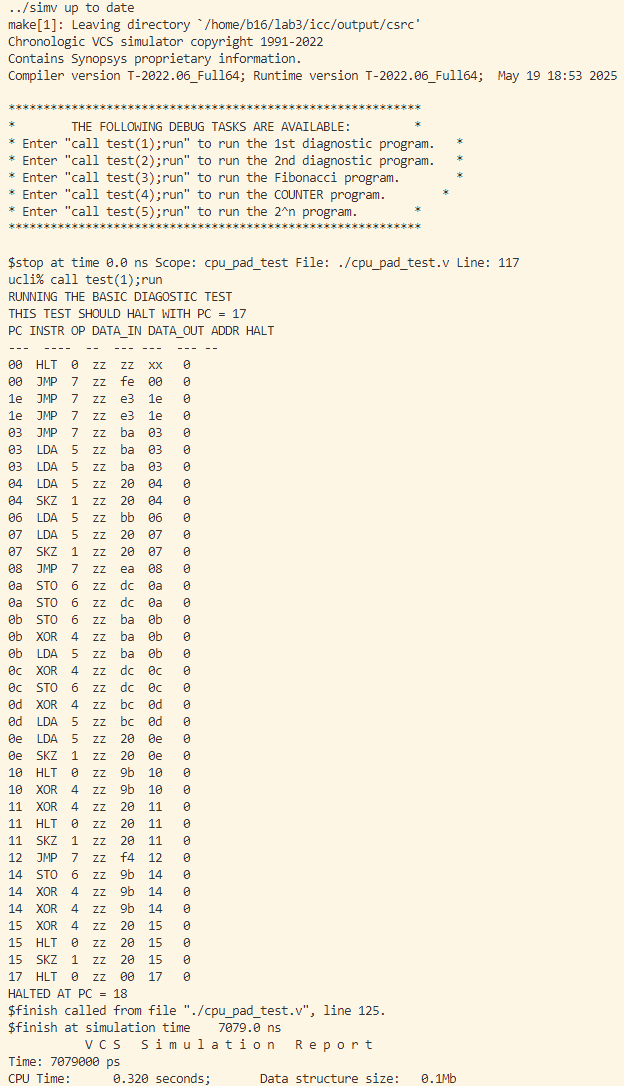
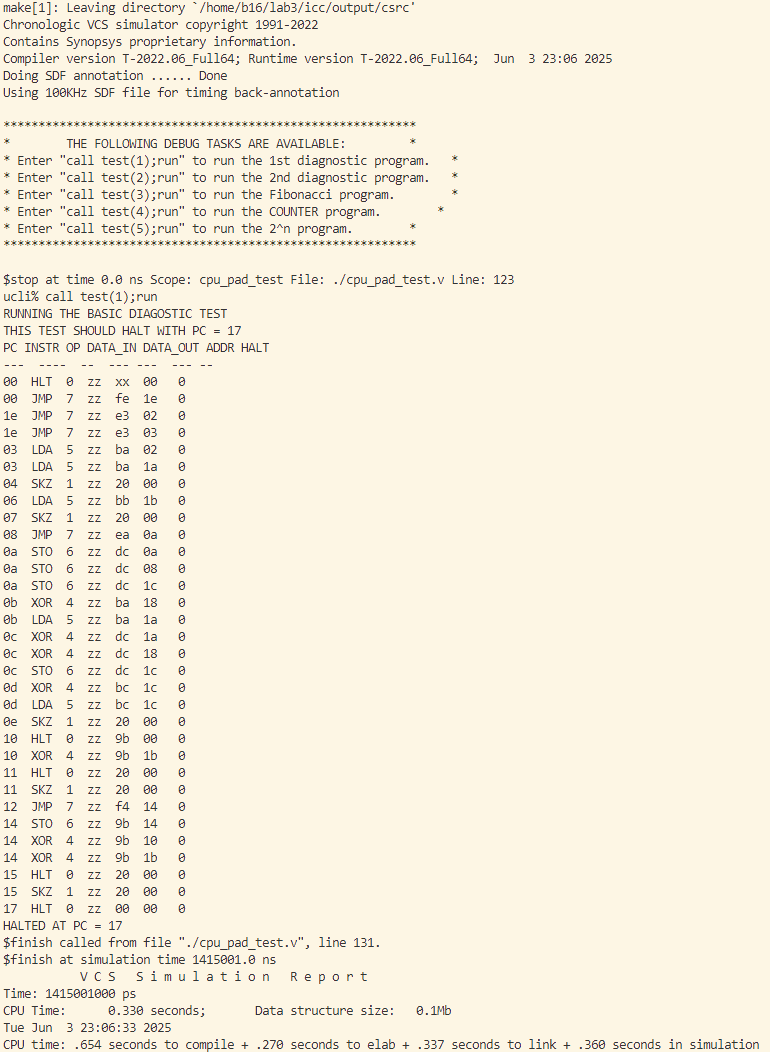
[Lab3] Update README.md and screenshots

diff --git a/lab3/README.md b/lab3/README.md
@@ -3,7 +3,7 @@
  * 
  * @Author: Albresky albre02@outlook.com
  * @Date: 2025-05-19 14:48:17
- * @LastEditTime: 2025-05-19 19:06:34
+ * @LastEditTime: 2025-06-03 23:16:44
  * @FilePath: /BUPT-EDA-Labs/lab3/README.md
  * 
  * @Description: 
@@ -103,17 +103,17 @@ vcs -f filelist.f \
 ./mem.v
 ```
 
->5. 反标 SDF 结束后，VCS 仿真测试结果。
+>5. 反标 SDF 结束后，VCS 仿真测试结果（**这里使用的是 100KHz 的 SDF 进行反标**）。
 
 - **测试 1**
 
-仿真结果正确，PC 指针在 addr=17 时成功 halt，当前 PC 指针指向地址 18。
+仿真结果正确，PC 指针在 addr=17 时成功 halt，当前 PC 指针指向地址 17。
 
 ![alt text](./images/test1.png)
 
 - **测试 2**
 
-仿真结果正确，PC 指针在 addr=10 时成功 halt，当前 PC 指针指向地址 18。
+仿真结果正确，PC 指针在 addr=10 时成功 halt，当前 PC 指针指向地址 17。
 
 ![alt text](./images/test2.png)
 
